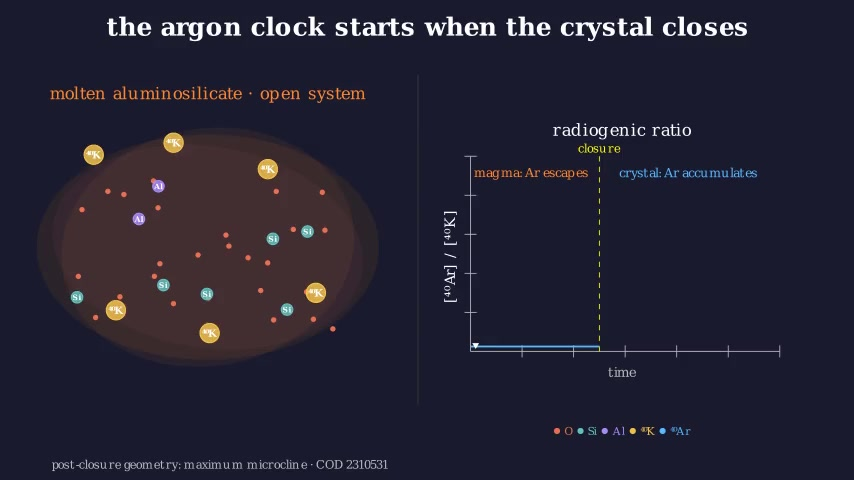
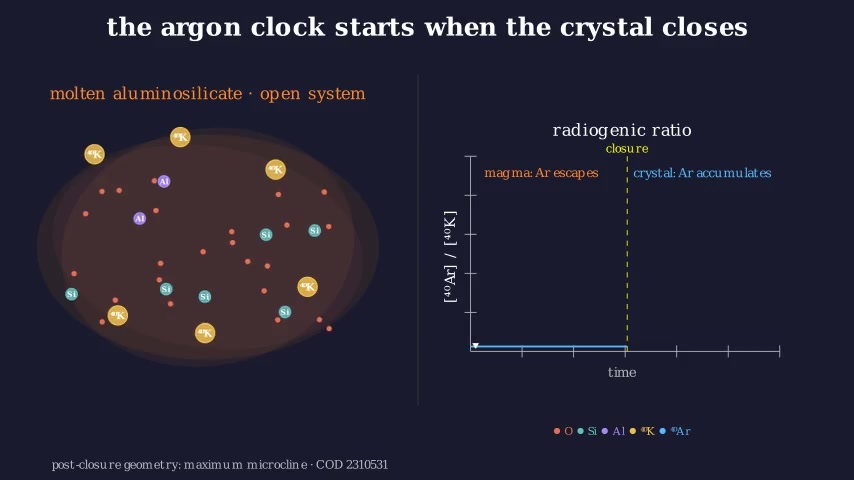
Publish continuous argon closure animation

diff --git a/posts/challenging-cold-mars.html b/posts/challenging-cold-mars.html
@@ -126,8 +126,8 @@
           <section class="article-grid subsection" id="argon-clock-start">
             <figure class="section-media">
               <div class="video-shell">
-                <video width="854" height="480" muted loop playsinline controls preload="metadata" poster="../assets/cold-mars/manim/argon-closure-clock.jpg">
-                  <source src="../assets/cold-mars/manim/argon-closure-clock.mp4" type="video/mp4">
+                <video width="854" height="480" muted loop playsinline controls preload="metadata" poster="../assets/cold-mars/manim/argon-closure-clock.jpg?v=20260718e">
+                  <source src="../assets/cold-mars/manim/argon-closure-clock.mp4?v=20260718e" type="video/mp4">
                 </video>
               </div>
             </figure>